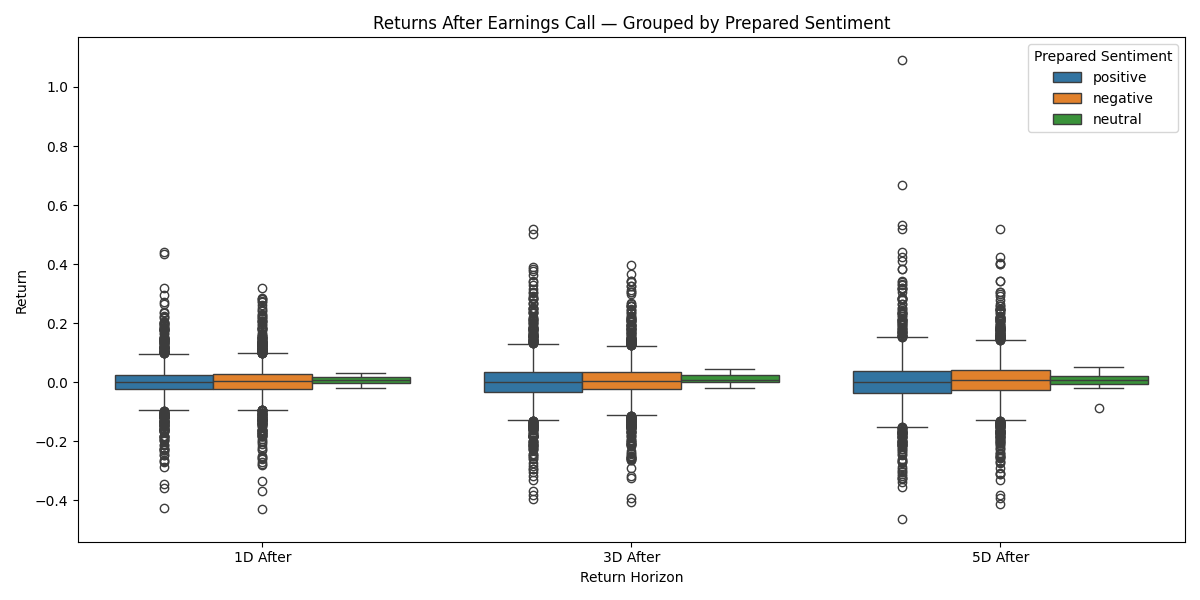
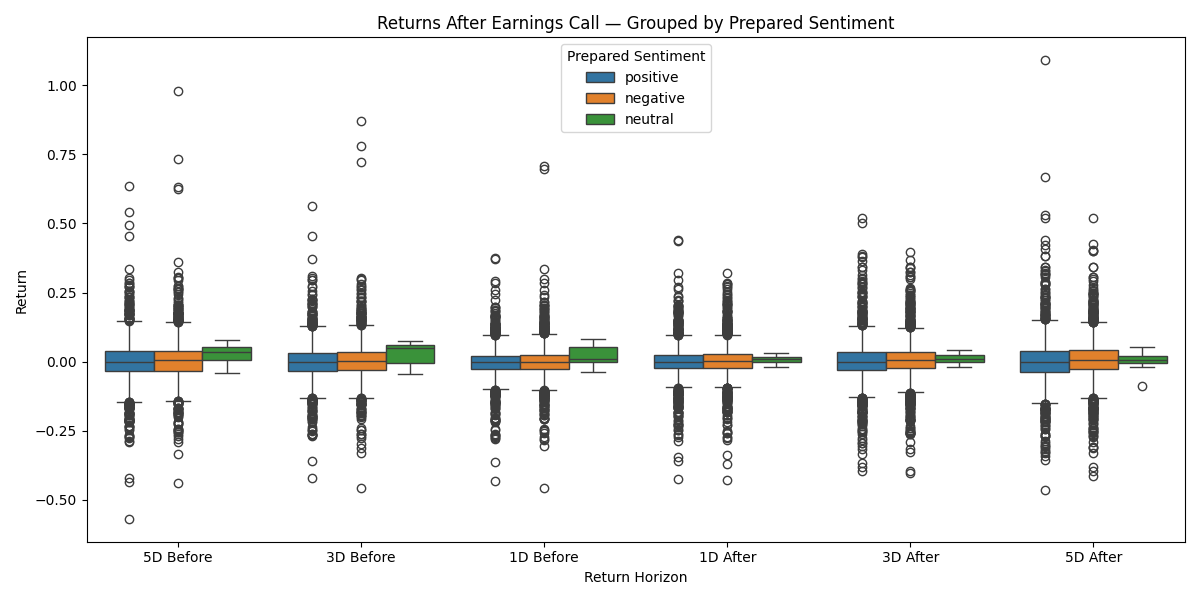
updated finbert boxplots to add 1,3,5 before returns

diff --git a/visualization/FinBert_boxplot.py b/visualization/FinBert_boxplot.py
@@ -19,6 +19,9 @@ sections = {
 valid_labels = ["positive", "negative", "neutral"]
 
 ret_cols = {
+    "ret_5d_before": "5D Before",
+    "ret_3d_before": "3D Before",
+    "ret_1d_before": "1D Before",
     "ret_1d_after": "1D After",
     "ret_3d_after": "3D After",
     "ret_5d_after": "5D After"
